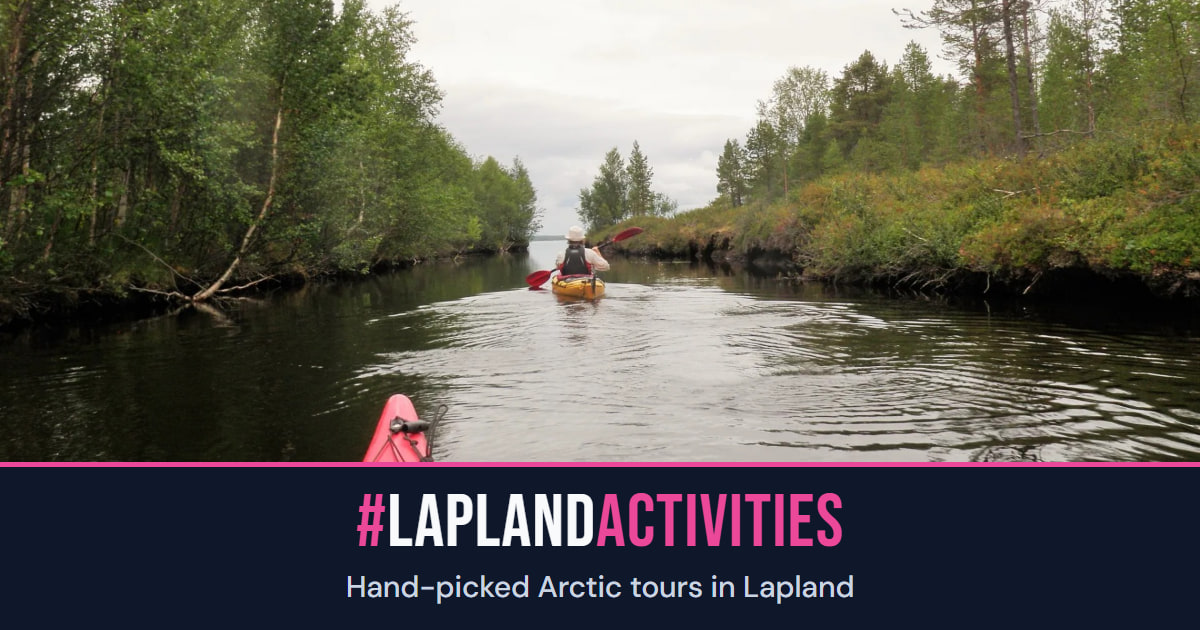
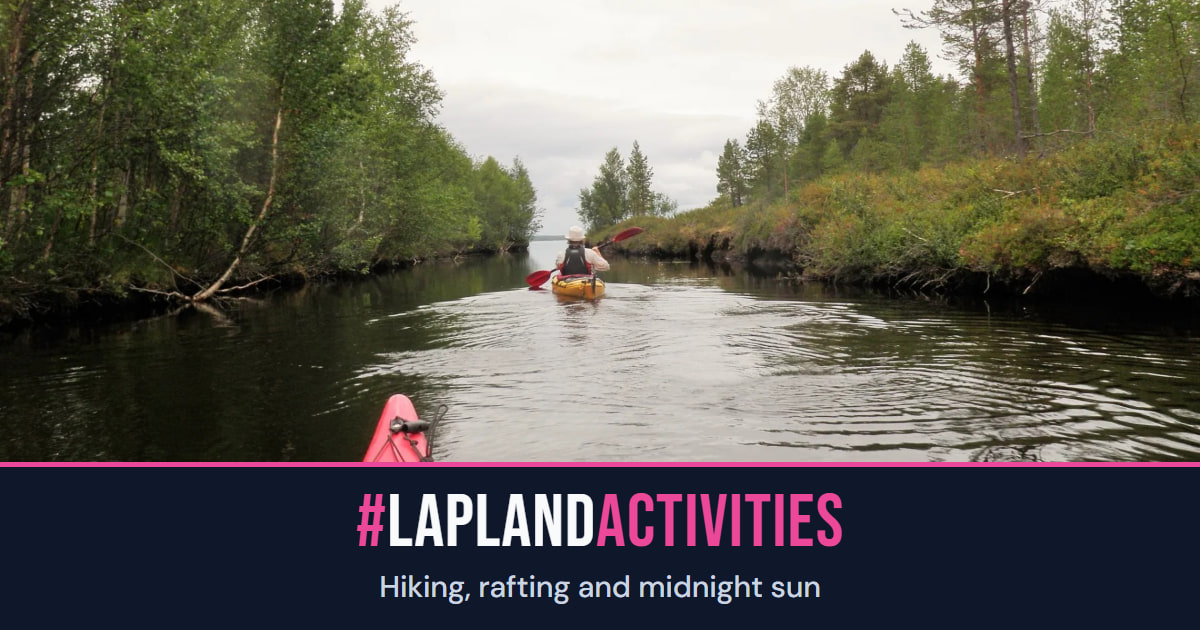
Jakokortti: kauden oma kuva JA kauden oma teksti
Vesa 21.9.2026: "eiko naihinkin pida olla saanto etta kesalla jaetaan
kesakuva ja teksti liittyy kesaan? nyt ouhut kesakuvassa aurorasta?"

Kortin kuva vaihtui kauden mukaan jo, teksti ei. Rekisterissa on nyt
taglineKesa ja taglineTalvi, ja kortit on tehty uudelleen molemmille
kausille. OG_VERSION nostettu, jotta uusi kortti nakyy jaossa heti eika
vasta kun some-palvelun valimuisti vanhenee.

Changed region(s): [[0.2775, 0.9048, 0.7092, 0.9651]]

diff --git a/index.html b/index.html
@@ -203,15 +203,15 @@
       });
     </script>
       <!-- Open Graph image (1200×630 JPEG) -->
-    <meta property="og:image" content="https://laplandactivities.fi/og.jpg?v=20260905" />
-    <meta property="og:image:secure_url" content="https://laplandactivities.fi/og.jpg?v=20260905" />
+    <meta property="og:image" content="https://laplandactivities.fi/og.jpg?v=20260921" />
+    <meta property="og:image:secure_url" content="https://laplandactivities.fi/og.jpg?v=20260921" />
     <meta property="og:image:type" content="image/jpeg" />
     <meta property="og:image:width" content="1200" />
     <meta property="og:image:height" content="630" />
     <meta property="og:image:alt" content="Kuuva channel on Lake Inari in summer. #LAPLANDACTIVITIES" />
     <!-- Twitter card -->
     <meta name="twitter:card" content="summary_large_image" />
-    <meta name="twitter:image" content="https://laplandactivities.fi/og.jpg?v=20260905" />
+    <meta name="twitter:image" content="https://laplandactivities.fi/og.jpg?v=20260921" />
     <meta name="twitter:image:alt" content="Kuuva channel on Lake Inari in summer. #LAPLANDACTIVITIES" />
       <!-- Favicon stack (LV ecosystem unified design) -->
     <link rel="icon" href="/favicon.svg?v=20260626b" type="image/svg+xml" />
